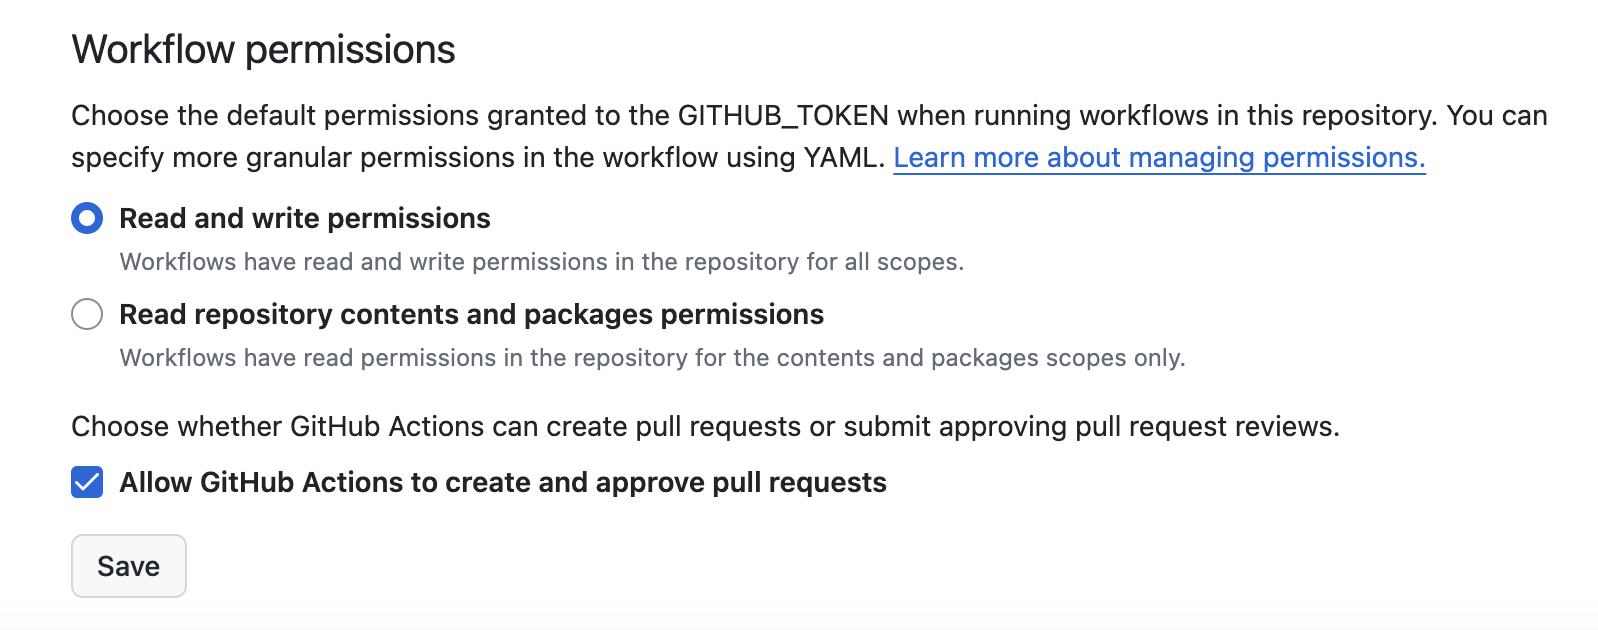
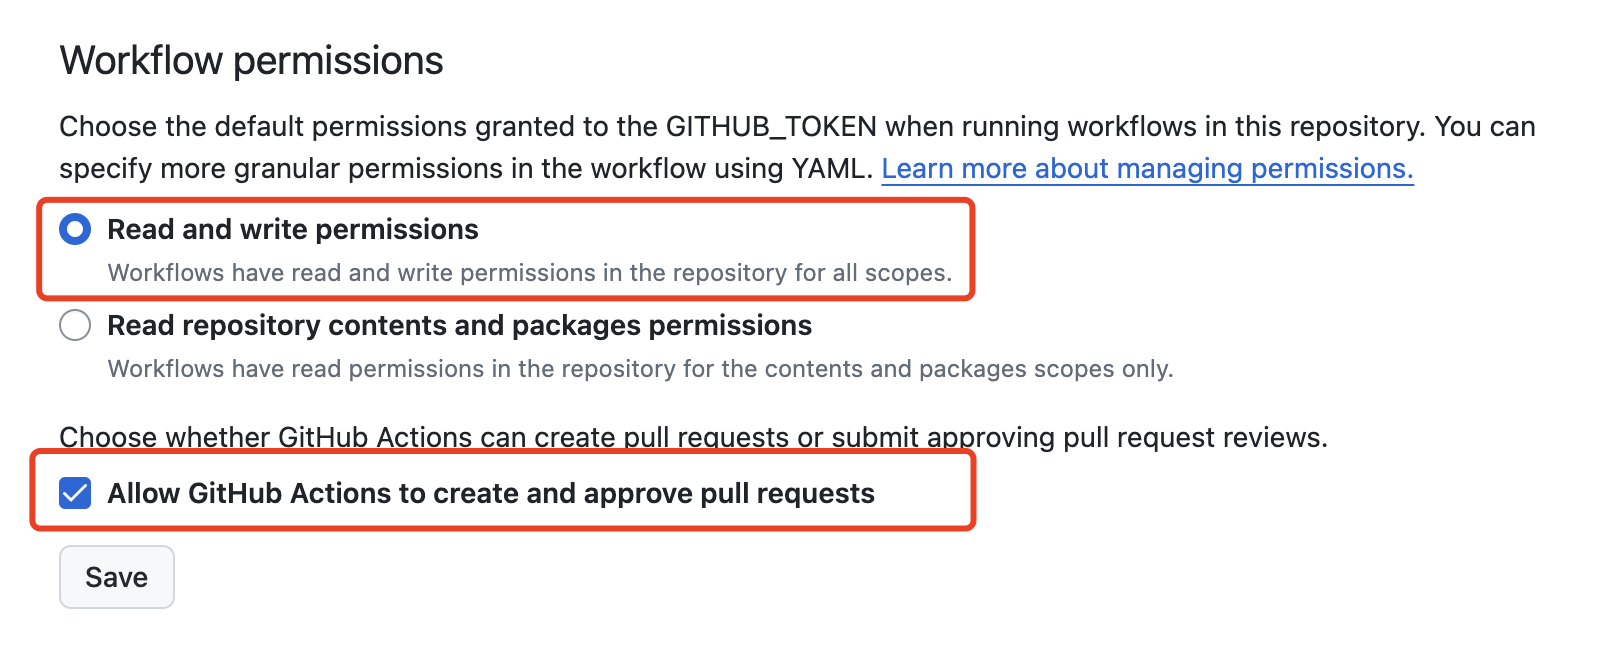
添加配置说明

diff --git a/README.md b/README.md
@@ -2,7 +2,6 @@
 
 请开启Actions Workflow permissions：https://github.com/Absinthe-Tian/xxx/settings/actions
 
-![alt text](README/image.png)
-
+![配置说明](README/image.png)
 
 [giscus评论](https://giscus.app/zh-CN)基于GitHub的Discussions的评论系统。
